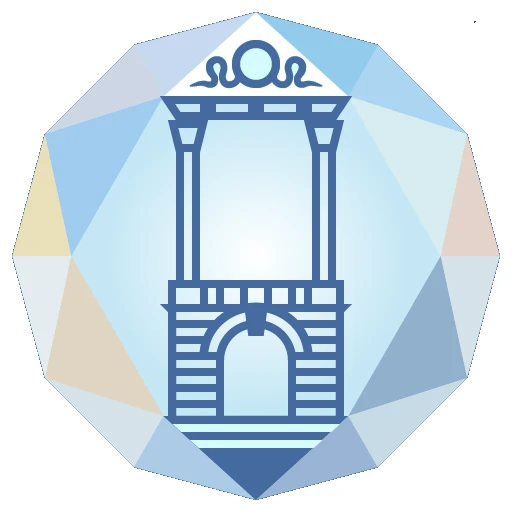
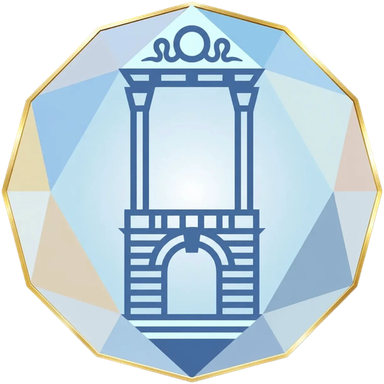
Граника: сверка с анкетой, фотогалерея, задел под видео
Правки по анкете, присланной клиентом:
- участников 5+ → 7+;
- в миссию вернулось выпавшее слово «зодчих»;
- в описание добавлены четыре потерянных пункта: натурные уроки,
  лекции, видео по маршрутам, обучающие видеокурсы;
- прогулки снова «архитектурные и астрономические», как в анкете;
- кураторов пять: добавлены Елена Чукалина и Алексей Куликовский,
  оба названы в анкете исследователями. Марина Спыну обозначена
  слушательницей — в список кураторов не вошла.

Снято как неподтверждённое:
- плашки «Темы 2» и «География 3 города». Первая вдобавок противоречила
  блоку «Что исследуем» с четырьмя темами. У двух оставшихся плашек
  инлайновый border-bottom:0 — правило .dir-stat:nth-child(n+3) при двух
  плитках перестаёт срабатывать и оставляет лишнюю линию;
- анонс «Ближайшее: прогулка по центру Москвы» — без даты и со ссылкой
  на канал направления, которого по анкете нет.

Кнопка Telegram вела на t.me/russkaya_yasna под подписью «Канал
сообщества», что на странице направления читается как канал Граники.
Это общий канал платформы — подпись исправлена.

Логотип заменён на версию из презентации клиента: 384×384 с альфа-каналом
и золотым ободом. Прежний файл был RGB с зашитым белым квадратом, который
на бежевом фоне выглядел заплаткой.

Галерея — 12 кадров из презентации (74 слайда, 77 фото): обмеры кладки,
натурные выходы, групповые прогулки, архитектура. Кадры, где люди
позируют крупным планом, не брали.
[…]

diff --git a/1/pages/granika.html b/1/pages/granika.html
@@ -75,18 +75,11 @@
         </div>
       </div>
       <div class="dir-stats" aria-label="Статистика">
-        <div class="dir-stat"><div class="lbl">Участников</div><div class="val">5<small>+</small></div></div>
-        <div class="dir-stat"><div class="lbl">Кураторов</div><div class="val">3</div></div>
-        <div class="dir-stat"><div class="lbl">Темы</div><div class="val">2</div></div>
-        <div class="dir-stat"><div class="lbl">География</div><div class="val">3<small> города</small></div></div>
+        <div class="dir-stat" style="border-bottom:0"><div class="lbl">Участников</div><div class="val">7<small>+</small></div></div>
+        <div class="dir-stat" style="border-bottom:0"><div class="lbl">Кураторов</div><div class="val">5</div></div>
       </div>
     </div>
 
-    <div class="strip" style="margin-top:32px;max-width:max-content">
-      <span class="dot"></span>
-      <span><b style="font-weight:600">Ближайшее:</b>&nbsp; архитектурная прогулка по&nbsp;центру Москвы. Дату согласуем в&nbsp;канале сообщества.</span>
-      <a href="zayavka.html?dir=granika" class="mono" style="color:var(--accent);text-transform:uppercase;letter-spacing:.08em;font-size:.72rem">Записаться →</a>
-    </div>
   </div>
 </section>
 
@@ -114,7 +107,7 @@
           </div>
           <div>
             <div class="fmt-num">03 · ПРОГУЛКА</div>
-            <h4 class="fmt-title">Архитектурные прогулки</h4>
+            <h4 class="fmt-title">Архитектурные и&nbsp;астрономические прогулки</h4>
             <p class="fmt-desc">Маршруты по&nbsp;Москве — читаем классицизм и&nbsp;деревянное зодчество.</p>
           </div>
           <div>
@@ -139,10 +132,13 @@
             <p class="about-text">
               Изучаем русскую дюймовую систему мер. Исследуем архитектурный символизм усадеб, поместий, имений, древних крепостей и&nbsp;монастырей, храмовых комплексов, селений, теремов и&nbsp;изб. Смотрим, как проявлен закон подобия природного порядка при&nbsp;проектировании древних и&nbsp;современных городов и&nbsp;поселений.
             </p>
+            <p class="about-text">
+              Проводим натурные уроки по&nbsp;архитектуре усадеб, храмовых комплексов, монастырей и&nbsp;крепостей. Читаем лекции по&nbsp;темам исследований. Выпускаем видео по&nbsp;архитектурным маршрутам и&nbsp;создаём обучающие видеокурсы.
+            </p>
             <div class="mission-box">
               <div class="label-accent">МИССИЯ</div>
               <p class="mission-text">
-                Знать и&nbsp;понимать язык наших предков, дошедший до&nbsp;нас в&nbsp;архитектурных памятниках и&nbsp;храмовых комплексах.
+                Знать и&nbsp;понимать язык зодчих, наших предков, дошедший до&nbsp;нас в&nbsp;архитектурных памятниках и&nbsp;храмовых комплексах.
               </p>
             </div>
             <div>
@@ -201,6 +197,43 @@
             <div class="for-row"><span class="for-mark">✦</span> Гидам и&nbsp;управленцам разного уровня</div>
           </div>
         </article>
+
+        <article class="panel">
+          <div class="panel-head">
+            <h3>Фото со&nbsp;встреч</h3>
+            <span class="sub">Обмеры · натурные выходы · прогулки</span>
+          </div>
+          <div class="photo-grid">
+            <img src="../src/img/granika/obmer-kladki.jpg" alt="Обмер кирпичной кладки рулеткой" loading="lazy" width="1200" height="900"/>
+            <img src="../src/img/granika/zamer-kirpicha.jpg" alt="Замер кирпича линейкой на стене" loading="lazy" width="1200" height="900"/>
+            <img src="../src/img/granika/vysota-kirpicha.jpg" alt="Измерение высоты кирпича линейкой" loading="lazy" width="1200" height="900"/>
+            <img src="../src/img/granika/progulka-gruppa.jpg" alt="Группа на архитектурной прогулке по Москве" loading="lazy" width="1200" height="900"/>
+            <img src="../src/img/granika/vedushchaya.jpg" alt="Ведущая показывает деталь здания" loading="lazy" width="1200" height="900"/>
+            <img src="../src/img/granika/u-teatra.jpg" alt="Группа участников у здания Большого театра" loading="lazy" width="1200" height="900"/>
+            <img src="../src/img/granika/v-hrame.jpg" alt="Участники в храме у иконостаса" loading="lazy" width="1200" height="900"/>
+            <img src="../src/img/granika/kirpichny-korpus.jpg" alt="Прогулка у старинного кирпичного корпуса" loading="lazy" width="1200" height="900"/>
+            <img src="../src/img/granika/bashnya-stena.jpg" alt="Башня и крепостная стена монастыря" loading="lazy" width="1200" height="900"/>
+            <img src="../src/img/granika/sobor-nekropol.jpg" alt="Собор и старый некрополь" loading="lazy" width="1200" height="900"/>
+            <img src="../src/img/granika/portik.jpg" alt="Колонный портик обветшавшего здания" loading="lazy" width="1200" height="900"/>
+            <img src="../src/img/granika/rotonda.jpg" alt="Храм-ротонда с портиком осенью" loading="lazy" width="1200" height="900"/>
+          </div>
+        </article>
+
+        <!-- Видеозаписи направления.
+             Ролики лежат у клиента на Яндекс.Диске: 4 файла, 1,53 ГБ, от 121 до 880 МБ.
+             В репозиторий они не помещаются: у GitHub жёсткий предел 100 МиБ на файл,
+             у Pages — 1 ГБ на сайт, а Git LFS с Pages не работает вовсе (отдаёт
+             текстовую заглушку вместо файла). Поэтому ролики идут на VK Видео,
+             канал «Ясное слово», и встраиваются плеером.
+             Чтобы включить блок: заполнить массив данными из «Поделиться →
+             Экспортировать» у каждого ролика (oid, id и обязательный hash). -->
+        <article class="panel" id="video-panel" hidden>
+          <div class="panel-head">
+            <h3>Видео направления</h3>
+            <span class="sub">Архитектурные маршруты</span>
+          </div>
+          <div class="vk-grid" id="vk-grid"></div>
+        </article>
       </div>
 
       <!-- RIGHT -->
@@ -208,7 +241,7 @@
         <article class="panel">
           <div class="panel-head">
             <h3>Кураторы</h3>
-            <span class="sub">3 человека</span>
+            <span class="sub">5 человек</span>
           </div>
           <div class="panel-body" style="padding:0">
             <div class="coord">
@@ -222,6 +255,14 @@
             <div class="coord">
               <div class="av" style="background:linear-gradient(135deg,#3a4a6a,var(--accent))">ДД</div>
               <div class="info"><b>Дмитрий Дашкевич</b><p>Исследователь</p></div>
+            </div>
+            <div class="coord">
+              <div class="av" style="background:linear-gradient(135deg,var(--accent),#7a5a3a)">ЕЧ</div>
+              <div class="info"><b>Елена Чукалина</b><p>Исследователь</p></div>
+            </div>
+            <div class="coord">
+              <div class="av" style="background:linear-gradient(135deg,#4a6a5a,var(--accent-2))">АК</div>
+              <div class="info"><b>Алексей Куликовский</b><p>Исследователь</p></div>
             </div>
           </div>
         </article>
@@ -335,7 +376,7 @@
       </div>
       <div class="acts">
         <a class="btn btn-primary" href="zayavka.html?dir=granika">Оставить заявку <span class="arr">→</span></a>
-        <a class="btn btn-ghost" href="https://t.me/russkaya_yasna" target="_blank">Канал сообщества</a>
+        <a class="btn btn-ghost" href="https://t.me/russkaya_yasna" target="_blank" rel="noopener">Общий канал Ясны</a>
       </div>
     </div>
   </div>
@@ -390,6 +431,71 @@
     </div>
   </div>
 </footer>
+
+<script>
+/* Видео Граники на VK Видео.
+   Как заполнить: у ролика на vkvideo.ru → «Поделиться» → «Экспортировать».
+   В коде iframe будет ссылка вида
+     https://vkvideo.ru/video_ext.php?oid=-123456&id=456239017&hash=abcdef0123456789
+   Оттуда взять три значения. hash обязателен: без него плеер отдаёт
+   «Видеофайл не найден». Доступ у ролика должен быть «Все».
+   Пока массив пуст, панель скрыта и на странице ничего не появляется. */
+(function () {
+  var VIDEO = [
+    // {oid:'-000000000', id:'000000000', hash:'0000000000000000',
+    //  title:'Новодевичий монастырь', sub:'8 мин 37 сек', poster:'novodevichy.jpg'},
+    // {oid:'', id:'', hash:'', title:'Коломенское',              sub:'3 мин 16 сек', poster:'kolomenskoe.jpg'},
+    // {oid:'', id:'', hash:'', title:'Большой Кремлёвский дворец', sub:'2 мин 36 сек', poster:'bkd.jpg'},
+    // {oid:'', id:'', hash:'', title:'Шимоново',                  sub:'5 мин 01 сек', poster:'shimonovo.jpg'}
+  ];
+
+  var ready = VIDEO.filter(function (v) { return v.oid && v.id && v.hash; });
+  if (!ready.length) return;
+
+  var panel = document.getElementById('video-panel');
+  var grid = document.getElementById('vk-grid');
+  panel.hidden = false;
+
+  ready.forEach(function (v) {
+    var fig = document.createElement('figure');
+    fig.className = 'vk-item';
+
+    var btn = document.createElement('button');
+    btn.type = 'button';
+    btn.className = 'vk-play';
+    btn.setAttribute('aria-label', 'Смотреть: ' + v.title);
+    if (v.poster) {
+      var img = document.createElement('img');
+      img.src = '../src/img/granika/video/' + v.poster;
+      img.alt = ''; img.loading = 'lazy';
+      btn.appendChild(img);
+    }
+    var mark = document.createElement('span');
+    mark.className = 'vk-mark'; mark.textContent = '▶';
+    btn.appendChild(mark);
+
+    /* Плеер вставляется только по клику: так страница не тянет
+       скрипты VK у всех подряд и не грузит четыре плеера сразу. */
+    btn.addEventListener('click', function () {
+      var f = document.createElement('iframe');
+      f.src = 'https://vkvideo.ru/video_ext.php?oid=' + encodeURIComponent(v.oid) +
+              '&id=' + encodeURIComponent(v.id) +
+              '&hash=' + encodeURIComponent(v.hash) + '&hd=2&autoplay=1';
+      f.allow = 'autoplay; encrypted-media; fullscreen; picture-in-picture; screen-wake-lock';
+      f.allowFullscreen = true;
+      f.frameBorder = '0';
+      f.title = v.title;
+      btn.replaceWith(f);
+    });
+
+    var cap = document.createElement('figcaption');
+    cap.innerHTML = v.title + (v.sub ? ' <span class="vk-dur">' + v.sub + '</span>' : '');
+
+    fig.appendChild(btn); fig.appendChild(cap);
+    grid.appendChild(fig);
+  });
+})();
+</script>
 
 </body>
 </html>

diff --git a/1/src/refresh.css b/1/src/refresh.css
@@ -1169,3 +1169,59 @@ a.dir.is-quiet::after {
 .kv-row .kv-val a { display: inline-flex; align-items: center; min-height: 32px; }
 /* .fmt-num печатался унаследованным 1rem и спорил по кеглю с .fmt-title 16.8px */
 .fmt-num { font-size: .68rem; }
+
+
+/* ─── Граника: видео с VK Видео (плеер грузится по клику) ────────── */
+.vk-grid {
+  display: grid;
+  grid-template-columns: repeat(2, 1fr);
+  gap: 16px;
+  padding: 20px 24px 24px;
+}
+.vk-item { margin: 0; }
+.vk-play {
+  position: relative;
+  display: block;
+  width: 100%;
+  aspect-ratio: 16 / 9;
+  padding: 0;
+  border: 1px solid var(--line);
+  border-radius: 12px;
+  overflow: hidden;
+  background: var(--bg-deep);
+  cursor: pointer;
+}
+/* contain, а не cover: два ролика сняты вертикально (9:16). При cover
+   от них остаётся середина; плеер VK покажет их так же — с полями. */
+.vk-play img { width: 100%; height: 100%; object-fit: contain; display: block; background: #17140f; }
+.vk-mark {
+  position: absolute;
+  inset: 0;
+  display: grid;
+  place-items: center;
+  font-size: 1.5rem;
+  color: #fff;
+  text-shadow: 0 2px 12px rgba(0, 0, 0, .6);
+  background: rgba(26, 23, 20, .22);
+  transition: background .25s ease;
+}
+@media (hover: hover) {
+  .vk-play:hover .vk-mark { background: rgba(26, 23, 20, .38); }
+}
+.vk-play:focus-visible { outline: 2px solid var(--accent); outline-offset: 3px; }
+.vk-item iframe {
+  width: 100%;
+  aspect-ratio: 16 / 9;
+  border-radius: 12px;
+  display: block;
+  background: #000;
+}
+.vk-item figcaption {
+  margin-top: 10px;
+  font-size: .92rem;
+  color: var(--ink);
+}
+.vk-dur { color: var(--accent); font-family: var(--font-mono); font-size: .78rem; }
+@media (max-width: 680px) {
+  .vk-grid { grid-template-columns: 1fr; }
+}
